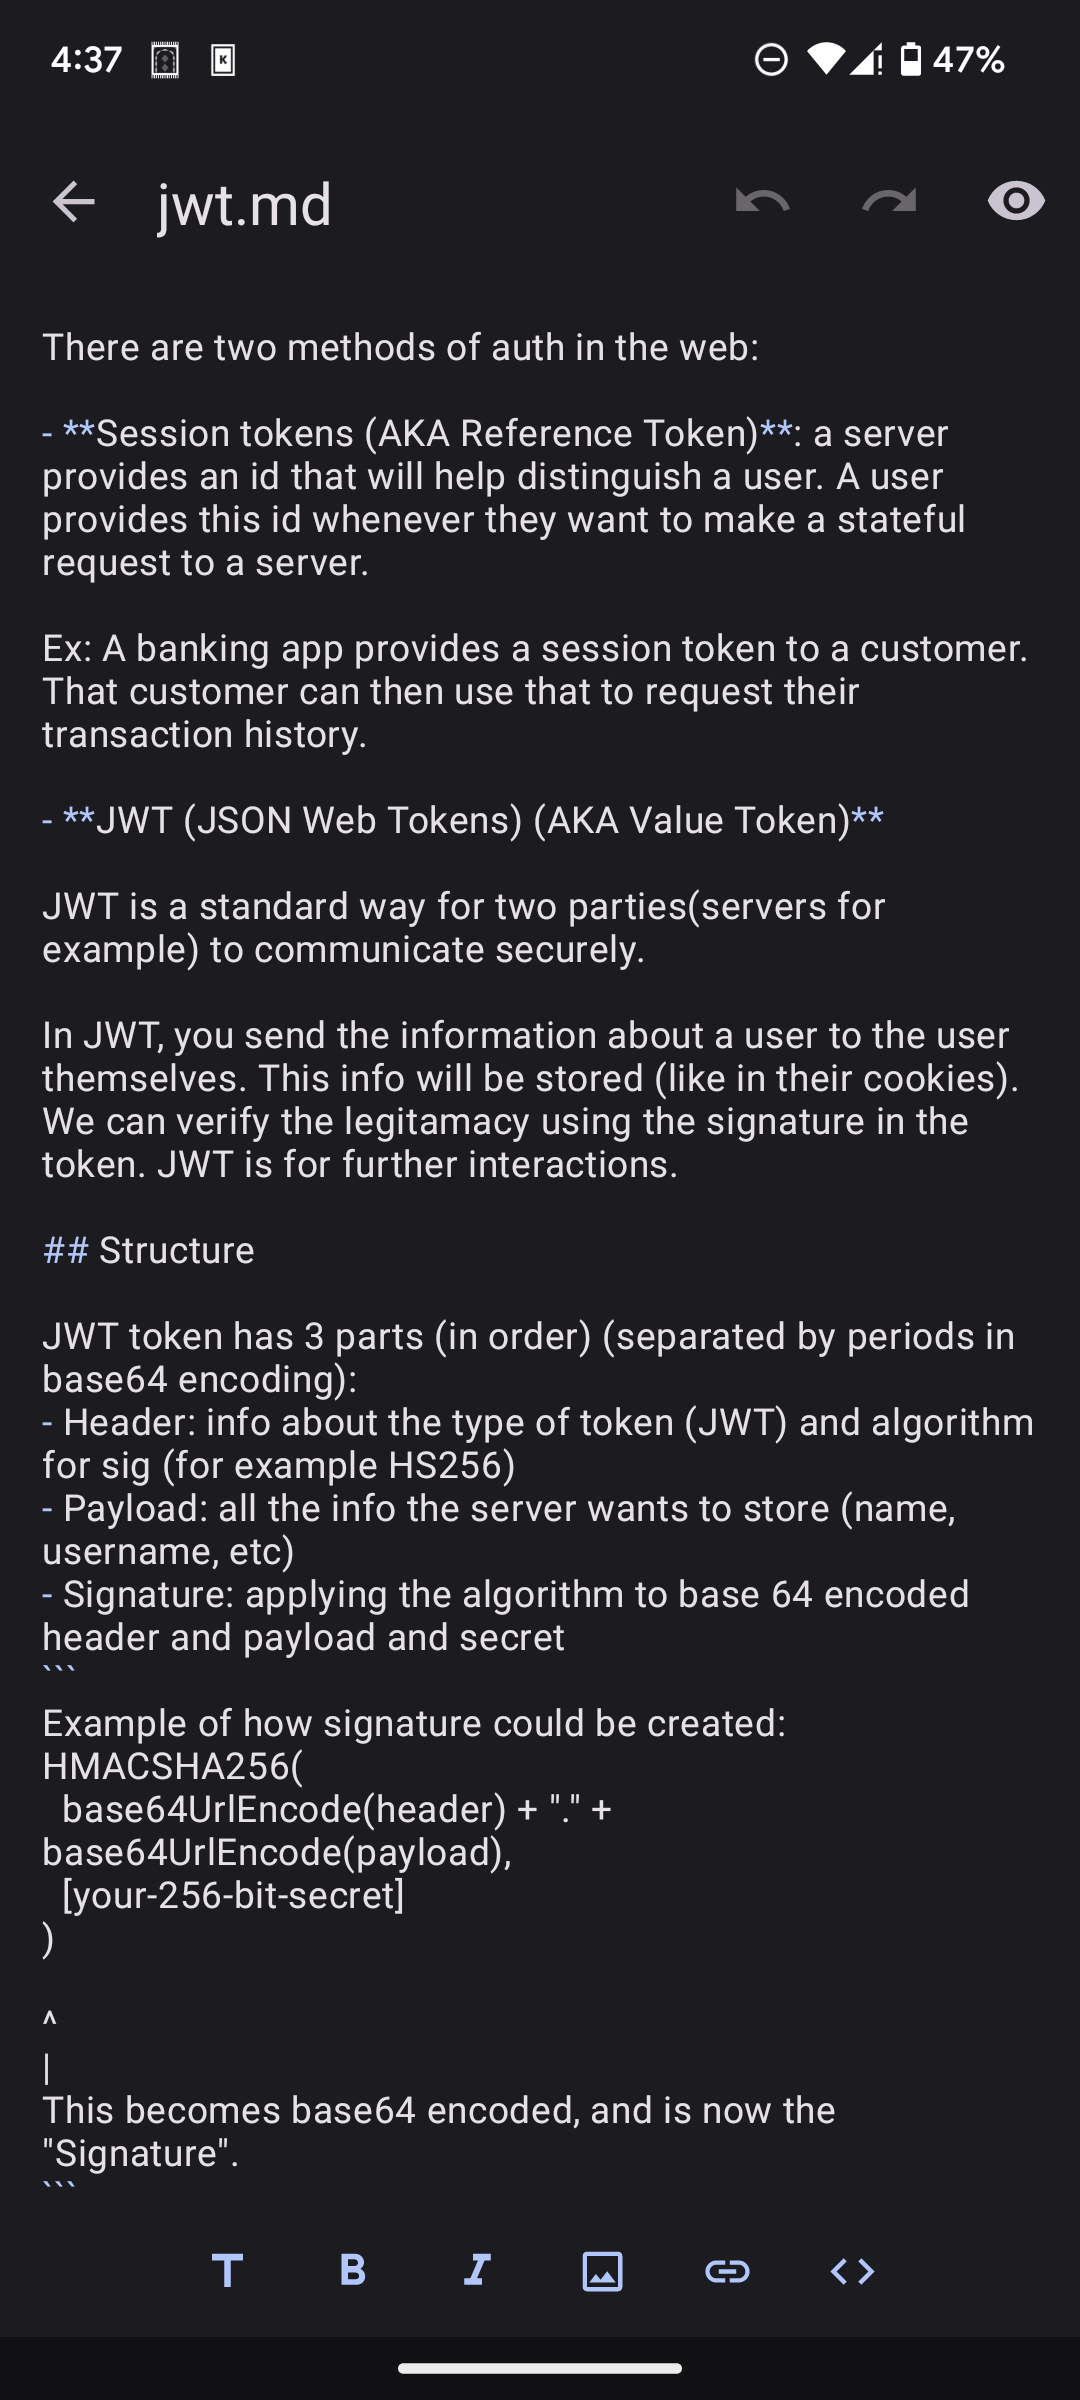
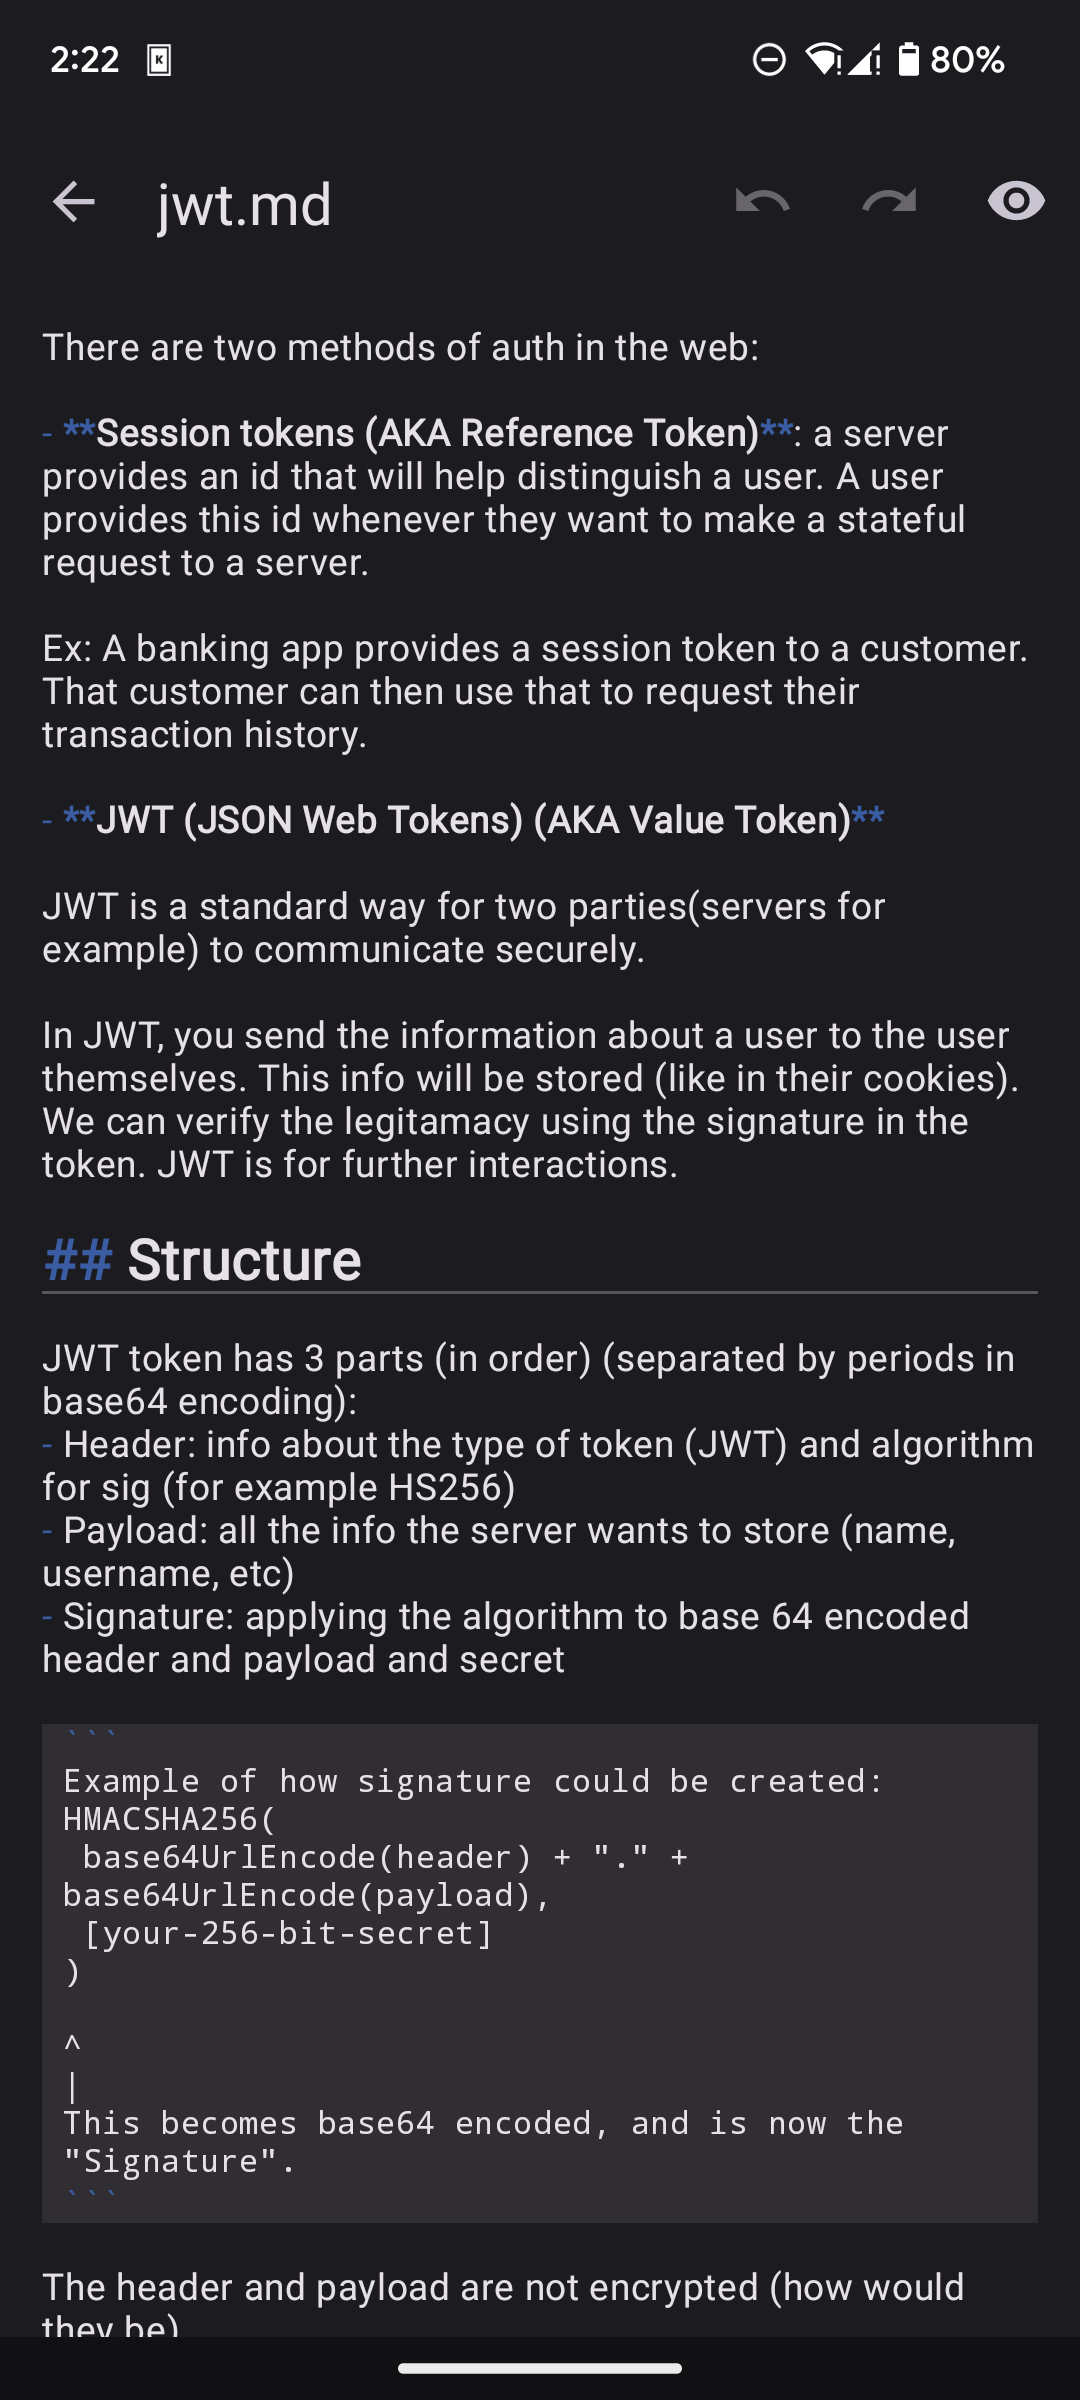
android: markdown improvements (#1282)
* intermediate work

* code blocks, emphasis and bold all work

* able to render latex

* code cleanup

* fixed code not rendering

* added screenshots

* removed unused dependency

* moved class

diff --git a/clients/android/app/src/main/java/app/lockbook/model/MarkdownModel.kt b/clients/android/app/src/main/java/app/lockbook/model/MarkdownModel.kt
@@ -1,0 +1,256 @@
+package app.lockbook.model
+
+import android.content.Context
+import android.text.Editable
+import android.text.Spanned
+import android.text.style.ForegroundColorSpan
+import android.text.style.StrikethroughSpan
+import androidx.core.content.res.ResourcesCompat
+import app.lockbook.R
+import com.google.android.material.textfield.TextInputEditText
+import com.google.android.material.textview.MaterialTextView
+import io.noties.markwon.Markwon
+import io.noties.markwon.SoftBreakAddsNewLinePlugin
+import io.noties.markwon.core.MarkwonTheme
+import io.noties.markwon.core.spans.BlockQuoteSpan
+import io.noties.markwon.core.spans.CodeBlockSpan
+import io.noties.markwon.core.spans.CodeSpan
+import io.noties.markwon.core.spans.HeadingSpan
+import io.noties.markwon.editor.*
+import io.noties.markwon.editor.handler.EmphasisEditHandler
+import io.noties.markwon.editor.handler.StrongEmphasisEditHandler
+import io.noties.markwon.ext.latex.JLatexMathPlugin
+import io.noties.markwon.ext.strikethrough.StrikethroughPlugin
+import io.noties.markwon.image.ImagesPlugin
+import io.noties.markwon.inlineparser.MarkwonInlineParserPlugin
+import java.util.concurrent.Executors
+
+class MarkdownModel(applicationContext: Context, textSize: Float) {
+    private val theme = MarkwonTheme.builderWithDefaults(applicationContext).build()
+    val markwon = Markwon.builder(applicationContext)
+        .usePlugin(StrikethroughPlugin.create())
+        .usePlugin(MarkwonInlineParserPlugin.create())
+        .usePlugin(
+            JLatexMathPlugin.create(
+                textSize + 3
+            ) { builder ->
+                builder.inlinesEnabled(true)
+            }
+        )
+        .usePlugin(ImagesPlugin.create())
+        .usePlugin(SoftBreakAddsNewLinePlugin.create())
+        .build()
+
+    private val markwonEditor = MarkwonEditor.builder(markwon)
+        .punctuationSpan(
+            CustomPunctuationSpan::class.java
+        ) {
+            CustomPunctuationSpan(
+                ResourcesCompat.getColor(
+                    applicationContext.resources,
+                    R.color.md_theme_primary,
+                    null
+                )
+            )
+        }
+        .useEditHandler(EmphasisEditHandler())
+        .useEditHandler(StrongEmphasisEditHandler())
+        .useEditHandler(CodeEditHandler(theme))
+        .useEditHandler(CodeBlockEditHandler(theme))
+        .useEditHandler(BlockQuoteEditHandler(theme))
+        .useEditHandler(HeadingEditHandler(theme))
+        .useEditHandler(StrikethroughEditHandler())
+        .build()
+
+    fun addMarkdownEditorTheming(textField: TextInputEditText) {
+        textField.addTextChangedListener(
+            MarkwonEditorTextWatcher.withPreRender(
+                markwonEditor,
+                Executors.newCachedThreadPool(),
+                textField
+            )
+        )
+    }
+
+    fun renderMarkdown(markdown: String, textView: MaterialTextView) {
+        markwon.setMarkdown(textView, markdown)
+    }
+}
+
+class CustomPunctuationSpan internal constructor(color: Int) : ForegroundColorSpan(color)
+
+class CodeEditHandler(private val theme: MarkwonTheme) : AbstractEditHandler<CodeSpan>() {
+    override fun configurePersistedSpans(builder: PersistedSpans.Builder) {
+        builder.persistSpan(
+            CodeSpan::class.java
+        ) { CodeSpan(theme) }
+    }
+
+    override fun handleMarkdownSpan(
+        persistedSpans: PersistedSpans,
+        editable: Editable,
+        input: String,
+        span: CodeSpan,
+        spanStart: Int,
+        spanTextLength: Int
+    ) {
+        val match =
+            MarkwonEditorUtils.findDelimited(input, spanStart, "`")
+        if (match != null) {
+            editable.setSpan(
+                persistedSpans[CodeSpan::class.java],
+                match.start(),
+                match.end(),
+                Spanned.SPAN_EXCLUSIVE_EXCLUSIVE
+            )
+        }
+    }
+
+    override fun markdownSpanType(): Class<CodeSpan> = CodeSpan::class.java
+}
+
+class CodeBlockEditHandler(private val theme: MarkwonTheme) : AbstractEditHandler<CodeBlockSpan>() {
+    override fun configurePersistedSpans(builder: PersistedSpans.Builder) {
+        builder.persistSpan(
+            CodeBlockSpan::class.java
+        ) { CodeBlockSpan(theme) }
+    }
+
+    override fun handleMarkdownSpan(
+        persistedSpans: PersistedSpans,
+        editable: Editable,
+        input: String,
+        span: CodeBlockSpan,
+        spanStart: Int,
+        spanTextLength: Int
+    ) {
+        val match =
+            MarkwonEditorUtils.findDelimited(input, spanStart, "```")
+        if (match != null) {
+            editable.setSpan(
+                persistedSpans[CodeBlockSpan::class.java],
+                match.start(),
+                match.end(),
+                Spanned.SPAN_EXCLUSIVE_EXCLUSIVE
+            )
+        }
+    }
+
+    override fun markdownSpanType(): Class<CodeBlockSpan> = CodeBlockSpan::class.java
+}
+
+class BlockQuoteEditHandler(private val theme: MarkwonTheme) : AbstractEditHandler<BlockQuoteSpan>() {
+    override fun configurePersistedSpans(builder: PersistedSpans.Builder) {
+        builder.persistSpan(
+            BlockQuoteSpan::class.java
+        ) { BlockQuoteSpan(theme) }
+    }
+
+    override fun handleMarkdownSpan(
+        persistedSpans: PersistedSpans,
+        editable: Editable,
+        input: String,
+        span: BlockQuoteSpan,
+        spanStart: Int,
+        spanTextLength: Int
+    ) {
+        editable.setSpan(
+            persistedSpans.get(BlockQuoteSpan::class.java),
+            spanStart,
+            spanStart + spanTextLength,
+            Spanned.SPAN_EXCLUSIVE_EXCLUSIVE
+        )
+    }
+
+    override fun markdownSpanType(): Class<BlockQuoteSpan> = BlockQuoteSpan::class.java
+}
+
+class HeadingEditHandler(private val theme: MarkwonTheme) : AbstractEditHandler<HeadingSpan>() {
+    override fun init(markwon: Markwon) {}
+
+    override fun configurePersistedSpans(builder: PersistedSpans.Builder) {
+        builder
+            .persistSpan(
+                Head1::class.java
+            ) { Head1(theme) }
+            .persistSpan(
+                Head2::class.java
+            ) { Head2(theme) }
+            .persistSpan(
+                Head3::class.java
+            ) { Head3(theme) }
+            .persistSpan(
+                Head4::class.java
+            ) { Head4(theme) }
+    }
+
+    override fun handleMarkdownSpan(
+        persistedSpans: PersistedSpans,
+        editable: Editable,
+        input: String,
+        span: HeadingSpan,
+        spanStart: Int,
+        spanTextLength: Int
+    ) {
+
+        val type = when (span.level) {
+            1 -> Head1::class.java
+            2 -> Head2::class.java
+            3 -> Head3::class.java
+            4 -> Head4::class.java
+            else -> null
+        }
+        if (type != null) {
+            val index = input.indexOf('\n', spanStart + spanTextLength)
+
+            val end = if (index < 0) input.length else index
+
+            editable.setSpan(
+                persistedSpans[type],
+                spanStart,
+                end,
+                Spanned.SPAN_EXCLUSIVE_EXCLUSIVE
+            )
+        }
+    }
+
+    override fun markdownSpanType(): Class<HeadingSpan> {
+        return HeadingSpan::class.java
+    }
+
+    private class Head1(theme: MarkwonTheme) : HeadingSpan(theme, 1)
+    private class Head2(theme: MarkwonTheme) : HeadingSpan(theme, 2)
+    private class Head3(theme: MarkwonTheme) : HeadingSpan(theme, 3)
+    private class Head4(theme: MarkwonTheme) : HeadingSpan(theme, 4)
+}
+
+class StrikethroughEditHandler : AbstractEditHandler<StrikethroughSpan>() {
+    override fun configurePersistedSpans(builder: PersistedSpans.Builder) {
+        builder.persistSpan(
+            StrikethroughSpan::class.java
+        ) { StrikethroughSpan() }
+    }
+
+    override fun handleMarkdownSpan(
+        persistedSpans: PersistedSpans,
+        editable: Editable,
+        input: String,
+        span: StrikethroughSpan,
+        spanStart: Int,
+        spanTextLength: Int
+    ) {
+        val match = MarkwonEditorUtils.findDelimited(input, spanStart, "~~")
+        if (match != null) {
+            editable.setSpan(
+                persistedSpans.get(StrikethroughSpan::class.java),
+                match.start(),
+                match.end(),
+                Spanned.SPAN_EXCLUSIVE_EXCLUSIVE
+            )
+        }
+    }
+
+    override fun markdownSpanType(): Class<StrikethroughSpan> {
+        return StrikethroughSpan::class.java
+    }
+}

diff --git a/clients/android/app/src/main/java/app/lockbook/screen/TextEditorFragment.kt b/clients/android/app/src/main/java/app/lockbook/screen/TextEditorFragment.kt
@@ -1,11 +1,9 @@
 package app.lockbook.screen
 
 import android.os.Bundle
-import android.text.style.ForegroundColorSpan
 import android.view.LayoutInflater
 import android.view.View
 import android.view.ViewGroup
-import androidx.core.content.res.ResourcesCompat
 import androidx.core.view.isVisible
 import androidx.fragment.app.Fragment
 import androidx.fragment.app.activityViewModels
@@ -15,11 +13,8 @@ import androidx.lifecycle.ViewModelProvider
 import app.lockbook.R
 import app.lockbook.databinding.FragmentTextEditorBinding
 import app.lockbook.model.*
-import io.noties.markwon.Markwon
-import io.noties.markwon.editor.MarkwonEditor
-import io.noties.markwon.editor.MarkwonEditorTextWatcher
+import io.noties.markwon.editor.*
 import java.lang.ref.WeakReference
-import java.util.concurrent.Executors
 
 class TextEditorFragment : Fragment() {
     private var _binding: FragmentTextEditorBinding? = null
@@ -33,7 +28,7 @@ class TextEditorFragment : Fragment() {
             object : ViewModelProvider.Factory {
                 override fun <T : ViewModel> create(modelClass: Class<T>): T {
                     if (modelClass.isAssignableFrom(TextEditorViewModel::class.java))
-                        return TextEditorViewModel(requireActivity().application, activityModel.detailsScreen!!.fileMetadata.id, (activityModel.detailsScreen as DetailsScreen.TextEditor).text) as T
+                        return TextEditorViewModel(requireActivity().application, activityModel.detailsScreen!!.fileMetadata, (activityModel.detailsScreen as DetailsScreen.TextEditor).text, binding.textEditorTextField.textSize) as T
                     throw IllegalArgumentException("Unknown ViewModel class")
                 }
             }
@@ -83,29 +78,8 @@ class TextEditorFragment : Fragment() {
             viewLifecycleOwner
         ) { content ->
             if (name.endsWith(".md")) {
-                val markdownEditor = MarkwonEditor.builder(Markwon.create(requireContext()))
-                    .punctuationSpan(
-                        CustomPunctuationSpan::class.java
-                    ) {
-                        CustomPunctuationSpan(
-                            ResourcesCompat.getColor(
-                                resources,
-                                R.color.md_theme_primary,
-                                null
-                            )
-                        )
-                    }
-                    .build()
-
+                model.markdownModel!!.addMarkdownEditorTheming(textField)
                 binding.markdownToolbar.visibility = View.VISIBLE
-
-                textField.addTextChangedListener(
-                    MarkwonEditorTextWatcher.withPreRender(
-                        markdownEditor,
-                        Executors.newCachedThreadPool(),
-                        textField
-                    )
-                )
             }
 
             textField.setText(content)
@@ -185,8 +159,7 @@ class TextEditorFragment : Fragment() {
 
     private fun viewMarkdown() {
         if (binding.textEditorScroller.visibility == View.VISIBLE) {
-            val markdown = Markwon.create(requireContext())
-            markdown.setMarkdown(binding.markdownViewer, textField.text.toString())
+            model.markdownModel!!.renderMarkdown(textField.text.toString(), binding.markdownViewer)
             textEditorToolbar.menu?.findItem(R.id.menu_text_editor_undo)?.isVisible = false
             textEditorToolbar.menu?.findItem(R.id.menu_text_editor_redo)?.isVisible = false
             binding.markdownToolbar.isVisible = false
@@ -212,9 +185,7 @@ class TextEditorFragment : Fragment() {
     fun saveOnExit() {
         if (model.editHistory.isDirty) {
             model.lastEdit = System.currentTimeMillis()
-            activityModel.saveTextOnExit(model.id, textField.text.toString())
+            activityModel.saveTextOnExit(model.fileMetadata.id, textField.text.toString())
         }
     }
 }
-
-class CustomPunctuationSpan internal constructor(color: Int) : ForegroundColorSpan(color)

diff --git a/clients/android/app/src/main/java/app/lockbook/model/TextEditorViewModel.kt b/clients/android/app/src/main/java/app/lockbook/model/TextEditorViewModel.kt
@@ -7,16 +7,14 @@ import androidx.lifecycle.AndroidViewModel
 import androidx.lifecycle.LiveData
 import androidx.lifecycle.viewModelScope
 import app.lockbook.util.*
-import app.lockbook.util.getRes
 import com.github.michaelbull.result.Err
 import kotlinx.coroutines.*
 
-class TextEditorViewModel(application: Application, val id: String, private val text: String) :
+class TextEditorViewModel(application: Application, val fileMetadata: File, private val text: String, textSize: Float) :
     AndroidViewModel(application) {
 
     private val handler = Handler(Looper.myLooper()!!)
     var lastEdit = 0L
-
     val editHistory = EditTextModel.EditHistory()
 
     private val _content = SingleMutableLiveData<String>()
@@ -27,6 +25,12 @@ class TextEditorViewModel(application: Application, val id: String, private val 
 
     val content: LiveData<String>
         get() = _content
+
+    val markdownModel = if (fileMetadata.name.endsWith(".md")) {
+        MarkdownModel(getApplication(), textSize)
+    } else {
+        null
+    }
 
     init {
         setUpTextView()
@@ -46,7 +50,7 @@ class TextEditorViewModel(application: Application, val id: String, private val 
                 viewModelScope.launch(Dispatchers.IO) {
                     if (currentEdit == lastEdit && editHistory.isDirty) {
                         val writeToDocumentResult =
-                            CoreModel.writeToDocument(id, content)
+                            CoreModel.writeToDocument(fileMetadata.id, content)
                         if (writeToDocumentResult is Err) {
                             _notifyError.postValue(writeToDocumentResult.error.toLbError(getRes()))
                         } else {

diff --git a/docs/design-ui/android/README.md b/docs/design-ui/android/README.md
@@ -30,8 +30,8 @@
 <img src="editor-light.png"  width="30%" height="30%">
 <img src="editor-dark.png"  width="30%" height="30%">
 
-<img src="editor-tablet-light.png"  width="80%" height="80%">
-<img src="editor-tablet-dark.png"  width="80%" height="80%">
+<img src="editor-tablet-light.jpg"  width="80%" height="80%">
+<img src="editor-tablet-dark.jpg"  width="80%" height="80%">
 </details>
 
 ## Drawing
